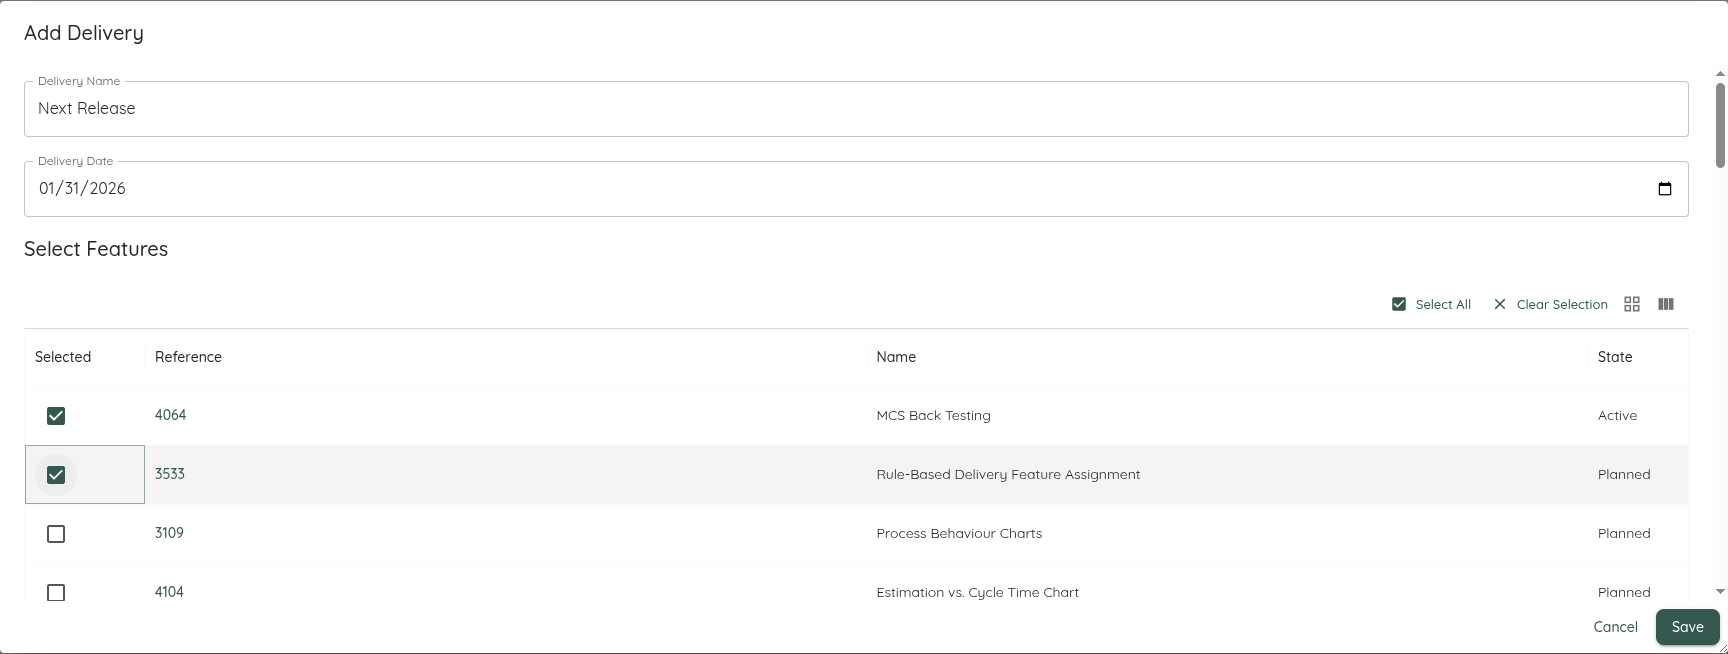
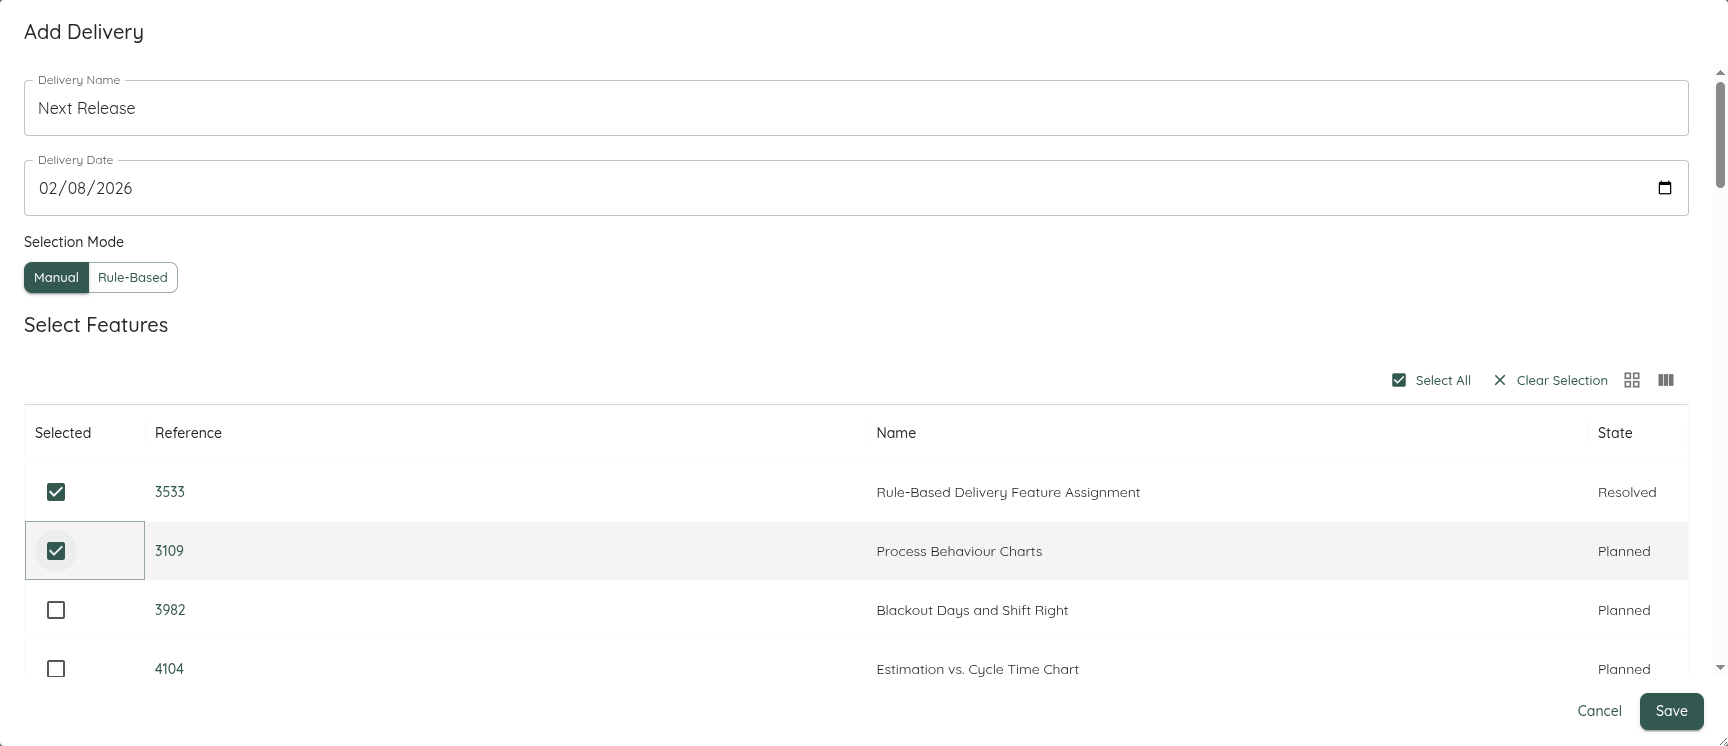
Add screenshot of rule-based delivery

diff --git a/Lighthouse.EndToEndTests/tests/specs/screenshots/Screenshots.spec.ts b/Lighthouse.EndToEndTests/tests/specs/screenshots/Screenshots.spec.ts
@@ -327,6 +327,7 @@ testWithData(
 		await updateTeams(request, overviewPage, testData.teams);
 		await updatePortfolios(request, overviewPage, testData.portfolios);
 
+		/*
 		// Team Deletion Dialog
 		const teamsPage = await overviewPage.lightHousePage.goToOverview();
 		const deleteTeamDialog = await teamsPage.deleteTeam(testData.teams[0].name);
@@ -343,7 +344,7 @@ testWithData(
 		const teamDetailPage = await overviewPage.goToTeam(testData.teams[0].name);
 		teamDetailPage.goToForecasts();
 
-		const inTwoWeeksDate = new Date(Date.now() + 14 * 24 * 60 * 60 * 1000)
+		const inTwoWeeksDate = new Date(Date.now() + 14 * 24 * 60 * 60 * 1000);
 		await teamDetailPage.forecast(10, inTwoWeeksDate);
 		await takePageScreenshot(teamDetailPage.page, "features/teamdetail.png", 3);
 
@@ -449,7 +450,7 @@ testWithData(
 		await takeElementScreenshot(
 			teamDetailPage.totalWorkItemAgeRunChart,
 			"features/metrics/totalWorkItemAgeRunChart.png",
-		);
+		);*/
 
 		overviewPage.lightHousePage.goToOverview();
 
@@ -502,6 +503,30 @@ testWithData(
 			0.5,
 			1000,
 		);
+
+		await addDeliveryPage.switchToRuleBased();
+
+		await addDeliveryPage.addRule();
+		await addDeliveryPage.setRuleField(0, "Type");
+		await addDeliveryPage.setRuleOperator(0, "Equals");
+		await addDeliveryPage.setRuleValue(0, "Epic");
+
+		
+		await addDeliveryPage.addRule();
+		await addDeliveryPage.setRuleField(1, "State");
+		await addDeliveryPage.setRuleOperator(1, "Not Equals");
+		await addDeliveryPage.setRuleValue(1, "Closed");
+
+		await addDeliveryPage.validateRules();
+
+		await takeDialogScreenshot(
+			addDeliveryPage.page.getByRole("dialog"),
+			"features/delivery_rule_based.png",
+			0.5,
+			1000,
+		);
+
+		await addDeliveryPage.switchToManual();
 
 		deliveryPage = await addDeliveryPage.save();
 		const delivery = deliveryPage.getDeliveryByName("Next Release");

diff --git a/Lighthouse.EndToEndTests/tests/models/portfolios/Deliveries/ModifyDeliveriesDialog.ts b/Lighthouse.EndToEndTests/tests/models/portfolios/Deliveries/ModifyDeliveriesDialog.ts
@@ -108,8 +108,8 @@ export class ModifyDeliveriesDialog {
 			.click();
 	}
 
-	async setRuleValue(_ruleIndex: number, value: string): Promise<void> {
-		const valueInput = this.page.getByRole("textbox", { name: "Value" });
+	async setRuleValue(ruleIndex: number, value: string): Promise<void> {
+		const valueInput = this.page.getByRole("textbox", { name: "Value" }).nth(ruleIndex);
 		await valueInput.fill(value);
 	}
 
